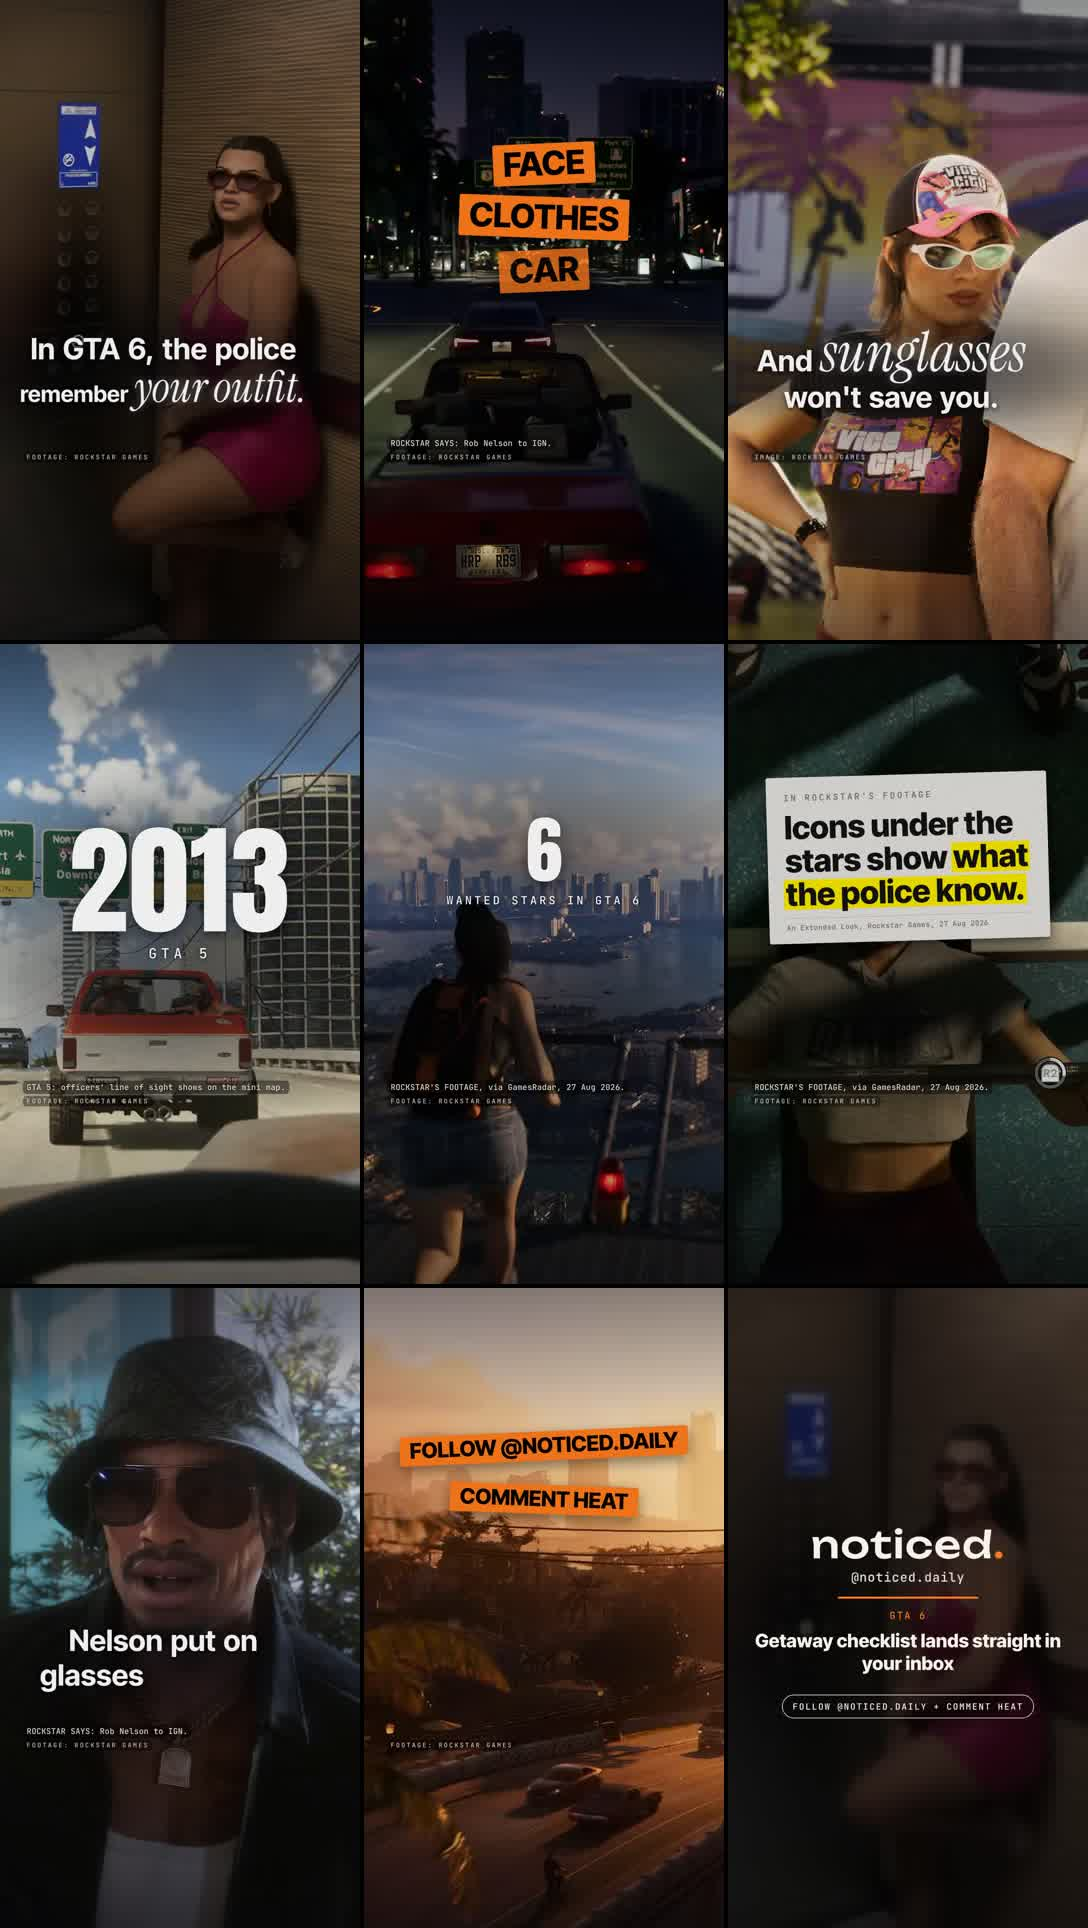
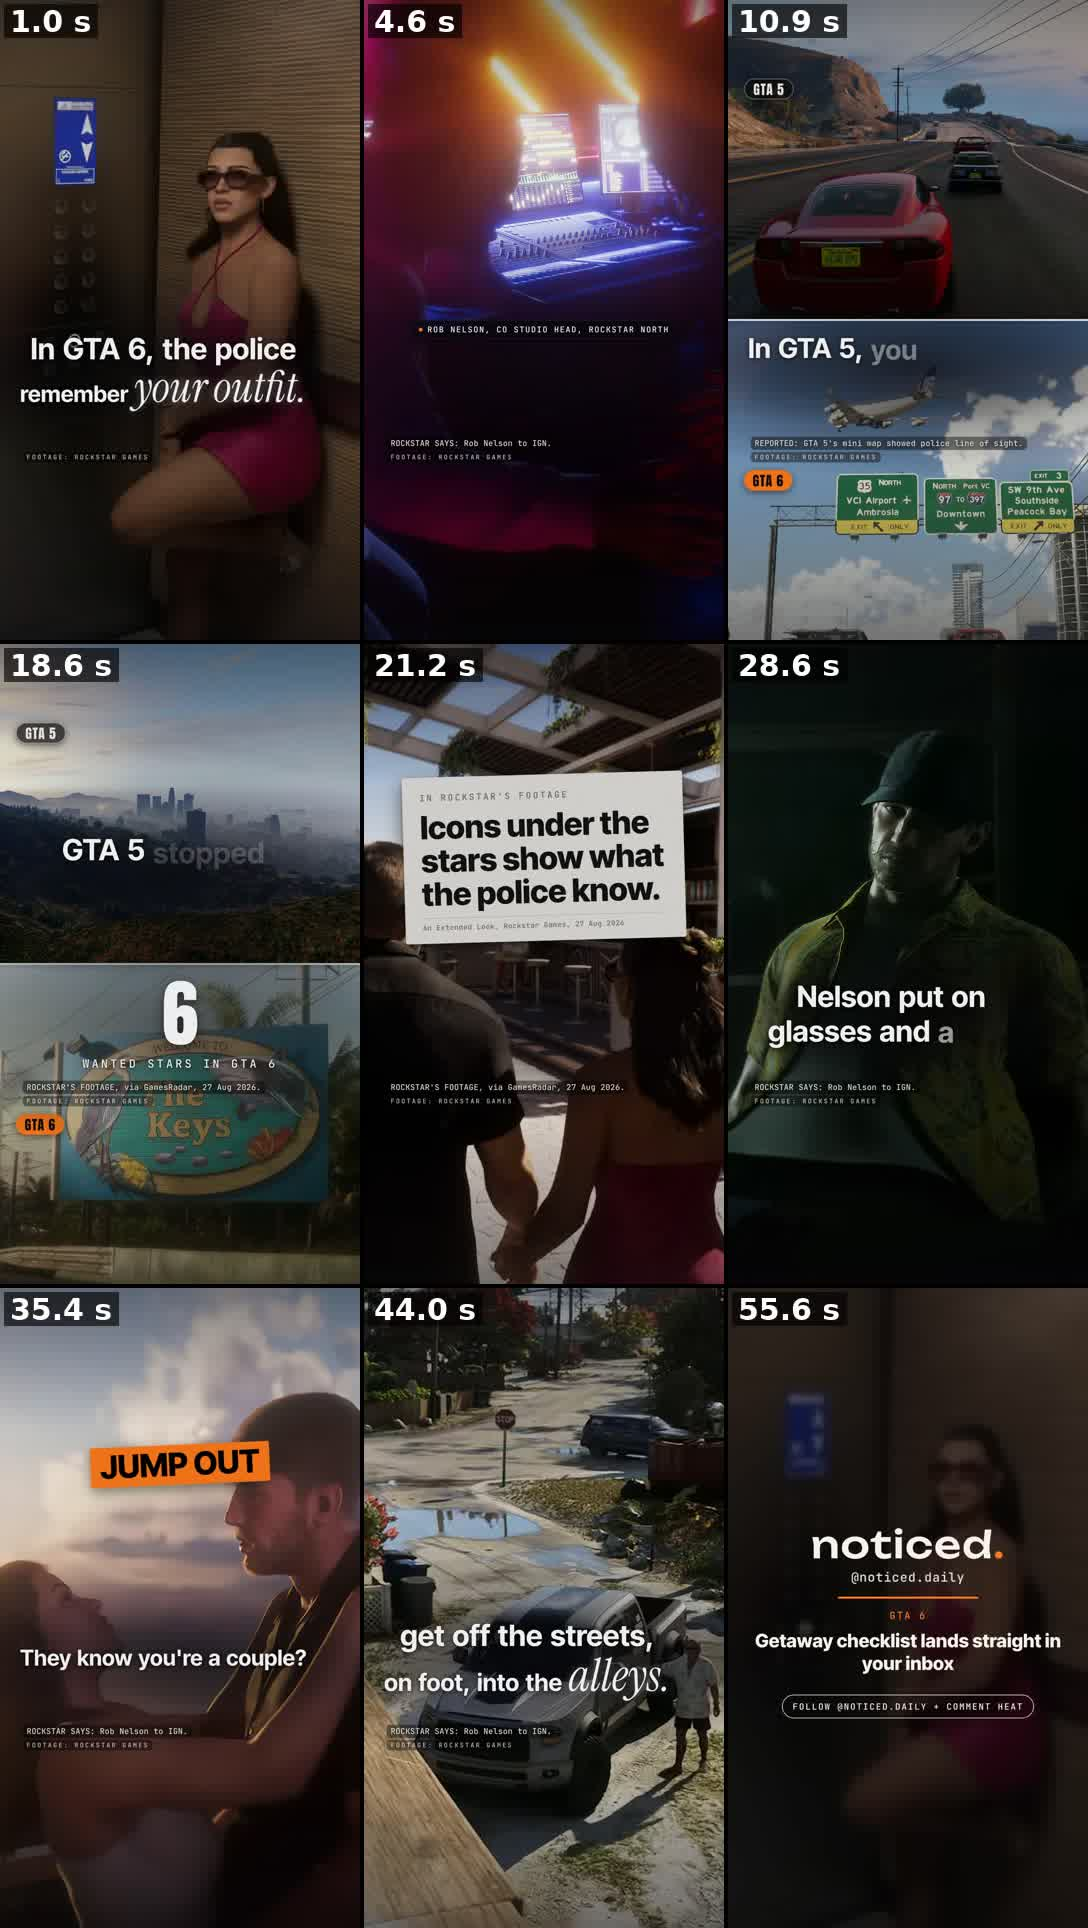
R8, R9: GTA 5 compare beats wired with official GTA V shots; R10 footnote trim
R8: radar and five star lines are splits (GTA V driving and skyline on top, GTA VI below, no police on either side); the radar footnote now carries its REPORTED label.
R9: bump, old GTAs and animations lines use compare (split, A/B, split) with a 55,000 stamp in the GTA 5 half; GTA V 546 and the shot 74 hug moment left out as body focused.
Fact checks, change notes and preview sheets updated.

Claude-Session: https://claude.ai/code/session_01Muek9cmac1hof1qCfQG9yR

diff --git a/reels-studio/reels/r9_crowds/factcheck.md b/reels-studio/reels/r9_crowds/factcheck.md
@@ -32,7 +32,7 @@
 * Verdict: SUPPORTED. Label: ROCKSTAR SAYS (Nelson to the NYT).
 * [STAR] "Their behaviour in Grand Theft Auto V, Nelson said, was quite simple: If you bumped into someone and he dropped an object, he would forget about it and walk away."
 * Year: [STAR] "Since Grand Theft Auto V was released in 2013".
-* compare_todo set: GTA V pedestrians beside the GTA VI street shot.
+* Compare split, GTA 5 on top: GTA V downtown still (501), Sandy Shores street with a man and his dog (548), a sunset street (530), above GTA VI (74 rooftop bar, then 41 Jason).
 
 **L3** "Now pedestrians carry personality traits. Temper. Aggression. What they've seen. How you treated them." Tiles TEMPER, AGGRESSION, WHAT THEY'VE SEEN, HOW YOU TREATED THEM.
 * Verdict: SUPPORTED ("temper" for "temperament"). Label: REPORTED (Edge).
@@ -45,7 +45,7 @@
 **L5** "Rob Nelson: in old GTAs, act out and everyone would run in terror. This world is not like that." Paper quote card (verbatim): "Apart from the police, everyone would run in terror from you if you started acting out. This world in GTA 6 is not like that." Rob Nelson, Rockstar North, to IGN.
 * Verdict: SUPPORTED. Label: ROCKSTAR SAYS.
 * [IGN2] "I think in previous GTA games you were a bit all powerful" (hyphen dropped) ... "Apart from the police, everyone would run in terror from you if you started acting out. This world in GTA 6 is not like that." Also quoted by [IG].
-* compare_todo set: a calm GTA V street beside this GTA VI crowd.
+* Compare A/B, GTA 5 first: GTA V Vinewood walk of fame crowd (509), cut to GTA VI on "act" (74, then 2), under the quote card.
 
 **L6** "So Rockstar built a whole team in Los Angeles, just for people on the street." Map: LOS ANGELES, NPC TEAM.
 * Verdict: SUPPORTED. Label: REPORTED (NYT, from Rockstar).
@@ -55,11 +55,10 @@
 * Verdict: SUPPORTED ("by hand" for the bespoke, not procedural, approach). Label: ROCKSTAR SAYS (Aaron Garbut to the NYT).
 * [STAR] "Rather than use procedural generation to algorithmically mix and match body parts and clothes, the developers went for a bespoke approach." and "“We art-directed each individual one of them,” said Garbut".
 
-**L8** "Over six hundred thousand animations. GTA Five had fifty five thousand. About eleven times more." Counter 600,000, ANIMATIONS IN GTA 6, WELL OVER. GTA 5 HAD 55,000, chip ROCKSTAR SAYS.
+**L8** "Over six hundred thousand animations. GTA Five had fifty five thousand. About eleven times more." Compare split: stamp 55,000, ANIMATIONS IN GTA 5 in the GTA 5 half (GTA V 503, 565, 556); counter 600,000, ANIMATIONS IN GTA 6 in the GTA 6 half. Footnote: "ROCKSTAR SAYS: via the NYT. OUR MATH: about 11x."
 * Verdict: SUPPORTED. Label: ROCKSTAR SAYS (via the NYT); "about eleven times" is OUR MATH.
 * [STAR] "Grand Theft Auto VI, Rockstar said, has well over 600,000 animations, compared with 55,000 animations in Grand Theft Auto V and 300,000 animations in Red Dead Redemption 2."
-* OUR MATH: 600,000 / 55,000 = 10.9, so about 11 times (more, since it is "well over"). [EDGE] says "around 600,000", so the counter stops at 600,000 and the label says WELL OVER.
-* compare_todo set: GTA V crowd labelled 55,000 beside GTA VI labelled 600,000 plus.
+* OUR MATH: 600,000 / 55,000 = 10.9, so about 11 times (more, since it is "well over"). [EDGE] says "around 600,000", so the counter stops at 600,000 and the voice says "Over".
 
 **L9, L10** "Watch one per second, nonstop? Almost a week." Stamp 6.9 DAYS, ONE ANIMATION PER SECOND.
 * Verdict: OUR MATH. 600,000 seconds / 86,400 seconds a day = 6.94 days. Footnote on screen: "OUR MATH: 600,000 seconds is about 6.9 days."
@@ -85,4 +84,5 @@ noticed. wordmark, @noticed.daily, GTA 6, "NPC cheat sheet lands straight in you
 ## Footage
 * Clips only inside audited clean windows (validator OK); frames checked with shot_frames.py; no clip holds or slows. No police, weapons, crashes or suggestive shots; shirtless close ups were swapped out where they were not needed. There is no dog in the clean library, so the hook uses strangers staring at the camera and a runner.
 * One official still: the Vice City skyline from rockstargames.com/VI.
-* compare_todo on L2, L5, L8.
+* GTA 5 beats (L2, L5, L8) use the engine compare mode with official, audited GTA V visuals (ids 501, 503, 509, 530, 548, 556, 565), GTA 5 first, both labelled. GTA V shot 546 (Vespucci boardwalk) was rejected: a woman in a thong bikini walks in the background.
+* Shot 74's hug moment (32 to 34 s, a tight dress seen from behind) is not used.

diff --git a/reels-studio/reels/r8_heat/factcheck.md b/reels-studio/reels/r8_heat/factcheck.md
@@ -34,24 +34,23 @@
 **L2** "And sunglasses won't save you." (open loop, paid off in L8)
 * Verdict: SUPPORTED. Label: ROCKSTAR SAYS. See L8.
 
-**L3** "Twenty thirteen. In GTA Five, you watched the cops on your radar." Stamp 2013, GTA 5. Footnote: officers' line of sight shows on the mini map.
-* Verdict: SUPPORTED. Label: GTA 5 fact (REPORTED).
+**L3** "Twenty thirteen. In GTA Five, you watched the cops on your radar." Stamp 2013, GTA 5. Footnote: "REPORTED: GTA 5's mini map showed police line of sight."
+* Verdict: SUPPORTED. Label: REPORTED (Wikipedia, GTA 5 gameplay).
 * [WIKI5] the wanted meter "eventually recedes when players are hidden from the officers' line of sight that displays on the mini-map for a period of time."
 * Year: [STAR] "Since Grand Theft Auto V was released in 2013, it has sold 230 million copies".
-* compare_todo set: GTA V radar beside the GTA VI shot.
+* Compare split, GTA 5 on top: official GTA V freeway and coastal driving (GTA V shots 541, 544, 542) above GTA VI driving (33, 102). The GTA V library has no radar shot (every official one shows police action), so the caption carries the radar point. No police on either side.
 
 **L4** "Rockstar's footage shows GTA Six mostly hides them."
 * Verdict: SUPPORTED, worded as "mostly". Label: ROCKSTAR'S FOOTAGE (owner's verified rule) / REPORTED (GamesRadar's reading of the same footage).
 * [OWNER] OFFICIAL: police usually not on the minimap.
 * [GR2] "At higher star Wanted Levels it looks like your minimap becomes obscured with red and blue flashing lights, so you can't use it to track the movements of any cops around you. Instead, you'll need to use your eyes to spot any police threats and lay low to avoid them."
 * Consistent with [IGN2] on Focus mode: "You can use it to help you locate things that you want to find on the map" ... "and certainly cops."
-* compare_todo set (B side of the radar comparison).
 
 **L5** "It shows six wanted stars, too. GTA Five stopped at five." Counter 5 to 6, WANTED STARS IN GTA 6.
 * Verdict: SUPPORTED. Label: ROCKSTAR'S FOOTAGE (via GamesRadar).
 * [GR1] "Here, we see that the wanted level can go up to six stars" ... "GTA 5 had previously been capped at five stars."
 * [IGNW] "Wanted Levels range from one to five stars."
-* We do not say what six stars does. compare_todo set: GTA V five star meter beside GTA VI.
+* We do not say what six stars does. Compare split, GTA 5 on top: GTA V skyline still (500) then downtown in the haze (531), above GTA VI (91, then 1); the 5 to 6 counter sits in the GTA 6 half. No wanted HUD footage exists without police, so the counter carries the numbers.
 
 **L6** "And small icons under the stars show what the police know." Paper card: IN ROCKSTAR'S FOOTAGE, "Icons under the stars show what the police know." Source line: An Extended Look, Rockstar Games, 27 Aug 2026.
 * Verdict: SUPPORTED. Label: ROCKSTAR'S FOOTAGE.
@@ -107,6 +106,6 @@ noticed. wordmark, @noticed.daily, GTA 6, "Getaway checklist lands straight in y
 * "Victim report" as a trigger and a "hidden" Criminal Profile: not in the IGN text I could open. Left out.
 
 ## Footage and stills
-* Clips only inside audited clean windows (validator OK); frames checked with shot_frames.py. No police, weapons, crashes or suggestive shots; no HUD footage of the wanted meter exists in the clean library, so the meter beats carry compare_todo notes.
+* Clips only inside audited clean windows (validator OK); frames checked with shot_frames.py. No police, weapons, crashes or suggestive shots; no HUD footage of the wanted meter exists in the clean library, so the meter beats use on screen counters and icons text.
 * Official stills from rockstargames.com/VI, checked by eye: Good Time Gear (caps and sunglasses), Stock 305 store sign, Vice City Style (Jason's floral shirt). Rejected: the couple on the green car (revolvers), every image with weapons, masks or logos.
-* compare_todo on L3, L4, L5 (GTA V radar and five star meter beside GTA VI).
+* GTA 5 beats (L3, L5) use the engine compare split with official, audited GTA V visuals (ids 500, 531, 541, 542, 544), GTA 5 on top, both halves labelled. No police on either side.

diff --git a/reels-studio/reels/r9_crowds/changes.md b/reels-studio/reels/r9_crowds/changes.md
@@ -5,5 +5,6 @@ There was no owner source.json for this reel: the script was written in this ses
 * Hook as suggested by the owner: "Stare at a stranger in GTA 6. His dog might chase you." Checked against Edge's cover story itself.
 * Nelson's eavesdropping and "run in terror" lines checked against IGN's own transcript; the NYT lines against The Star's full reprint.
 * Call to action rule (13 Nov): ends on "Stare, or pet the dog?" then "Follow noticed dot daily and comment STARE. The NPC cheat sheet lands straight in your inbox. See you in Leonida." To stay at 162 words: "Edge magazine watched it happen" became "In Edge's demo", "Stand too close and listen in" became "Listen in too close", "every single one of them" became "every one", and the week line became "Watch one per second, nonstop? Almost a week." The loop line left.
-* GTA 5 beats use the compare mode, GTA 5 first: the bump line is a split with GTA V shot 509 (Vinewood walk of fame crowd) over GTA 6, the "old GTAs" line an A/B cut from GTA V shot 546 (Vespucci boardwalk crowd) to GTA 6 on "everyone", and the 55,000 line a split with GTA V shot 501 (downtown park) on top and the 600,000 counter in the GTA 6 half.
+* GTA 5 beats use the compare mode, GTA 5 first, both labelled: the bump line is a split (GTA V downtown 501, Sandy Shores street with a man and his dog 548, a sunset street 530 on top; GTA VI rooftop bar and Jason below), the "old GTAs" line an A/B cut from GTA V's Vinewood walk of fame crowd (509) to GTA VI on "act", under Nelson's quote card, and the animations line a split with 55,000 stamped over GTA V (503, 565, 556) on top and the 600,000 counter in the GTA VI half. GTA V shot 546 (Vespucci boardwalk) was rejected: a thong bikini in the background.
+* Footage: the rooftop bar hug (shot 74, 32 to 34 s, where the audit notes a tight dress seen from behind) was replaced by shots 28 and 83, to stay clear of anything body focused.
 * End card: noticed. wordmark, @noticed.daily, "NPC cheat sheet lands straight in your inbox", FOLLOW @noticed.daily + COMMENT STARE.

diff --git a/reels-studio/reels/r8_heat/changes.md b/reels-studio/reels/r8_heat/changes.md
@@ -6,6 +6,7 @@ There was no owner source.json for this reel: the script was written in this ses
 * Facts limited to the owner's verified heat rules (13 Nov): mechanics are said as "Rockstar's footage shows" or "Rockstar's Rob Nelson told IGN". Dropped: the six clue icon names (GamesRadar's reading, not in the verified list), star colours, K9 units, spike strips.
 * Every quote was checked against IGN's own transcript (27 Aug and 7 Oct 2026), which also upgraded "Busted if either of you is arrested" and "a new outfit removes the heat" to Nelson's own words.
 * Call to action rule (13 Nov): the reel now ends on "New shirt, new car, or split up?" then "Follow noticed dot daily and comment HEAT. The getaway checklist lands straight in your inbox. See you in Leonida." The loop line and "Spare outfits even ride in your trunk" left the voice to stay at 162 words; the trunk tip is item 4 of the DM checklist.
-* GTA 5 beats (2013 radar line, five stars line) use the compare split: official GTA V shots 507 and 500 on top, GTA VI below. The GTA V library has no radar or wanted HUD shot (every official one shows police), so GTA 5 is shown with its city and freeways.
+* GTA 5 beats use the compare split, GTA 5 on top, both labelled. The 2013 radar line pairs official GTA V freeway and coastal driving (541, 544, 542) with GTA VI driving; the five stars line pairs the GTA V skyline (500) and downtown (531) with GTA VI (the BASE jump, then The Keys drive). The GTA V library has no radar or wanted HUD shot (every official one shows police action), so the caption carries the radar point and no police appear on either side.
+* The radar footnote is labelled: "REPORTED: GTA 5's mini map showed police line of sight."
 * Footage: shirtless close ups swapped out; official stills added for wardrobe (Good Time Gear caps and sunglasses, the Stock 305 store sign, Vice City Style floral shirt).
 * End card: noticed. wordmark, @noticed.daily, "Getaway checklist lands straight in your inbox", FOLLOW @noticed.daily + COMMENT HEAT.
